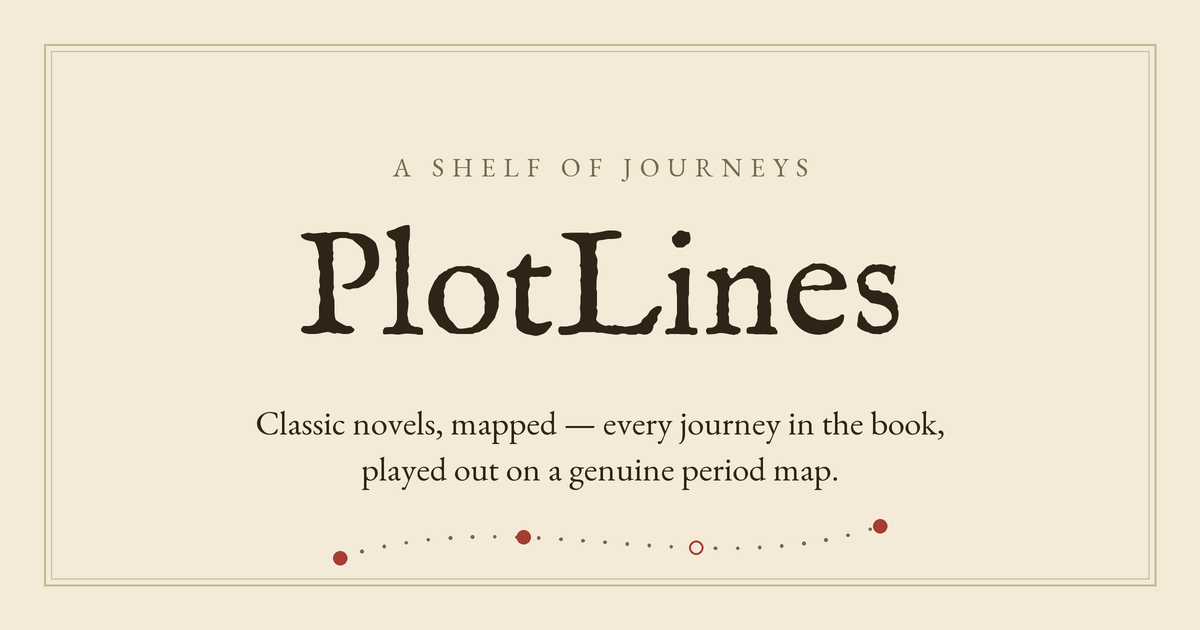
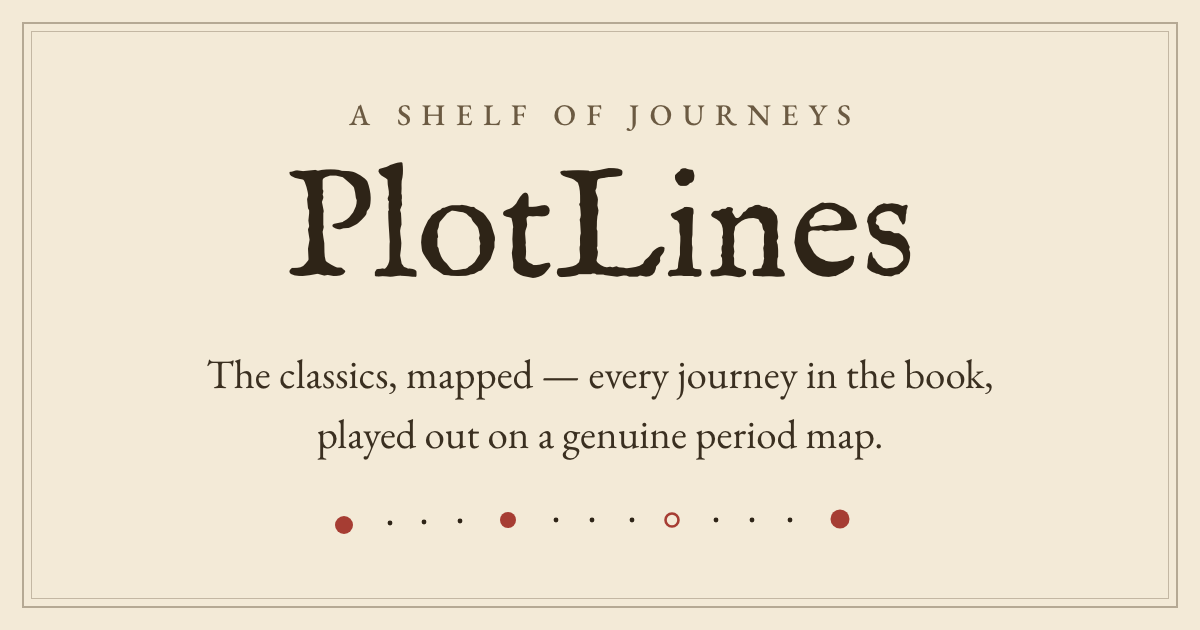
content: reframe the site from 'novels' to 'the classics'
PlotLines is about to hold its first play (Shakespeare's Henry IV), so the
user-facing framing stops saying 'novels'. Retitles the page and OG card to
'the classics, mapped', regenerates assets/og.png to match (same design,
IM Fell + EB Garamond, the route-bead motif), reframes the About intro and
the How-it's-made 'raw material' node to 'a novel or a play', and updates the
shelf subtitle. Internal code keeps its 'novel' identifiers; historical diary
entries stand as written (they were about novels).

diff --git a/index.html b/index.html
@@ -3,19 +3,19 @@
 <head>
   <meta charset="utf-8">
   <meta name="viewport" content="width=device-width, initial-scale=1">
-  <title>PlotLines — classic novels, mapped</title>
-  <meta name="description" content="Watch the characters of classic novels move across a genuine period map — the whole story played out, all at once.">
+  <title>PlotLines — the classics, mapped</title>
+  <meta name="description" content="Follow the characters of classic novels and plays across a genuine period map — the whole story played out, all at once.">
   <link rel="icon" href="assets/favicon.svg" type="image/svg+xml">
   <link rel="icon" href="assets/favicon-32.png" sizes="32x32" type="image/png">
   <link rel="apple-touch-icon" href="assets/apple-touch-icon.png">
   <meta property="og:type" content="website">
   <meta property="og:site_name" content="PlotLines">
-  <meta property="og:title" content="PlotLines — classic novels, mapped">
-  <meta property="og:description" content="Every journey in the book, played out on a genuine period map. Ten out-of-copyright novels, from Frankenstein to Mrs Dalloway.">
+  <meta property="og:title" content="PlotLines — the classics, mapped">
+  <meta property="og:description" content="Every journey in the book, played out on a genuine period map — out-of-copyright novels and plays, followed stop by stop from Frankenstein to Shakespeare.">
   <meta property="og:image" content="https://peter-guillam123.github.io/plotlines/assets/og.png">
   <meta property="og:image:width" content="1200">
   <meta property="og:image:height" content="630">
-  <meta property="og:image:alt" content="PlotLines — classic novels, mapped">
+  <meta property="og:image:alt" content="PlotLines — the classics, mapped">
   <meta property="og:url" content="https://peter-guillam123.github.io/plotlines/">
   <meta name="twitter:card" content="summary_large_image">
   <script>

diff --git a/about.html b/about.html
@@ -28,11 +28,11 @@
 
     <section>
       <h2>What this is</h2>
-      <p>PlotLines takes novels that are out of copyright and draws their
+      <p>PlotLines takes out-of-copyright classics and draws their
       characters' journeys on a period map. Pick a book, press play, and the
       whole cast moves at once — or follow one person and let the map travel
-      with them. Hover any stop and you get the place as the novel itself
-      names it, with the line of text that puts them there.</p>
+      with them. Hover any stop and you get the place as the text itself
+      names it, with the line that puts them there.</p>
       <p>It began with <em>Dracula</em>, because Stoker wrote what is probably
       the best travel itinerary in Victorian fiction — a clerk crossing Europe
       by train, a ghost ship rounding Gibraltar with her captain lashed to the

diff --git a/workshop.html b/workshop.html
@@ -99,8 +99,8 @@
       <div class="pipe">
         <div class="node io start">
           <span class="tag">the raw material</span>
-          <h3>A novel</h3>
-          <p>Out of copyright, and on Project Gutenberg as plain text.</p>
+          <h3>A classic text</h3>
+          <p>A novel or a play, out of copyright, and on Project Gutenberg as plain text.</p>
         </div>
 
         <div class="link"></div>

diff --git a/js/ui/library.js b/js/ui/library.js
@@ -15,7 +15,7 @@ export function createLibrary(container, index) {
     <div class="library-card" role="dialog" aria-modal="true" aria-labelledby="library-title" tabindex="-1">
       <p class="intro-kicker">A shelf of journeys</p>
       <h1 class="library-title" id="library-title">PlotLines</h1>
-      <p class="library-sub">Classic novels, mapped — every journey in the book,
+      <p class="library-sub">The classics, mapped — every journey in the book,
         drawn on a hand-tinted period map, with the real 1890s Ordnance Survey
         wherever the story walks in Britain. Take one down.</p>
       <div class="library-shelf" role="group" aria-label="The shelf"></div>